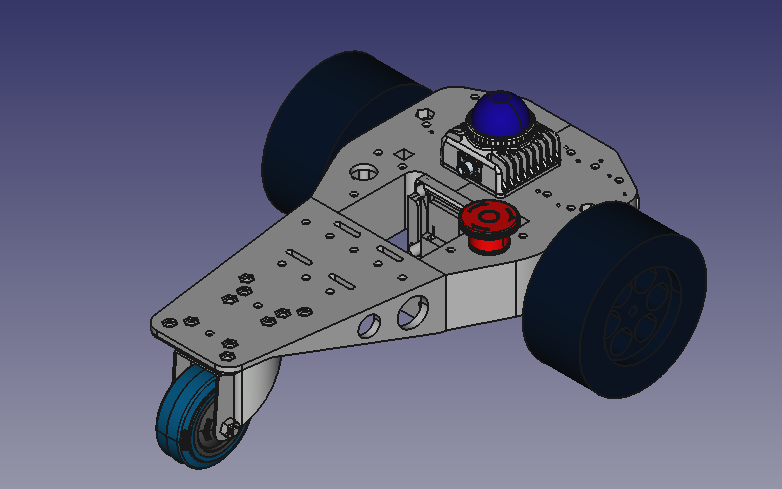
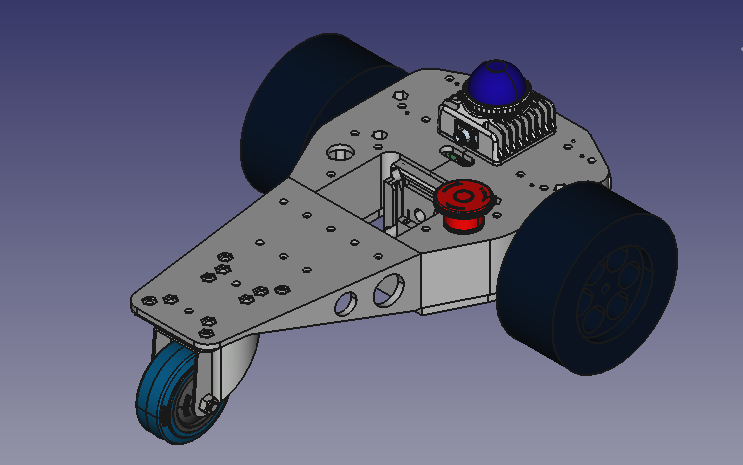
added image from front, updated readme

diff --git a/README.md b/README.md
@@ -3,13 +3,15 @@ Outdoor robotics platform
 
 ![T07 rendering](/docs/images/T07_rendering.png)
 
+![T07 rendering front](/docs/images/T07_rendering_front.png)
+
 ![T07 rendering electronics](/docs/images/T07_rendering_electronics.png)
 
 ![T07 rendering with mandeye controller](/docs/images/T07_rendering_mandeye_controller.png)
 
 ## Introduction
 
-The T07 mini is an outdoor robotics platform intended for participation in contests like Robotem Rovne, Roboorienteering or Robotour but also for general robotic experiments. It has mounting positions for Arduino Uno and Mega boards.
+The T07 mini is an outdoor robotics platform intended for participation in contests like Robotem Rovne, Roboorienteering or Robotour but also for general robotic experiments. There is also a mounting option for the [mandeye-controller](https://github.com/JanuszBedkowski/mandeye_controller).
 
 ## Dimensions
 
@@ -48,7 +50,9 @@ The whole robot with ultrasonic sensors is depending on the wheels about 45 cm l
 
 ## electronics and software
 
-This platform may be equipped with the hardware and software of the [Arduino on JECCbot mini project](https://github.com/generationmake/Arduino_on_JECCbot_mini).
+There are mounting holes for a Raspberry Pi or a [Pika Spark](https://docs.pika-spark.io/) on the controller standoff.
+
+[CyphalRobotController07/CAN](https://github.com/generationmake/CyphalRobotController07-CAN) is the main controller board.
 
 ## License
 
